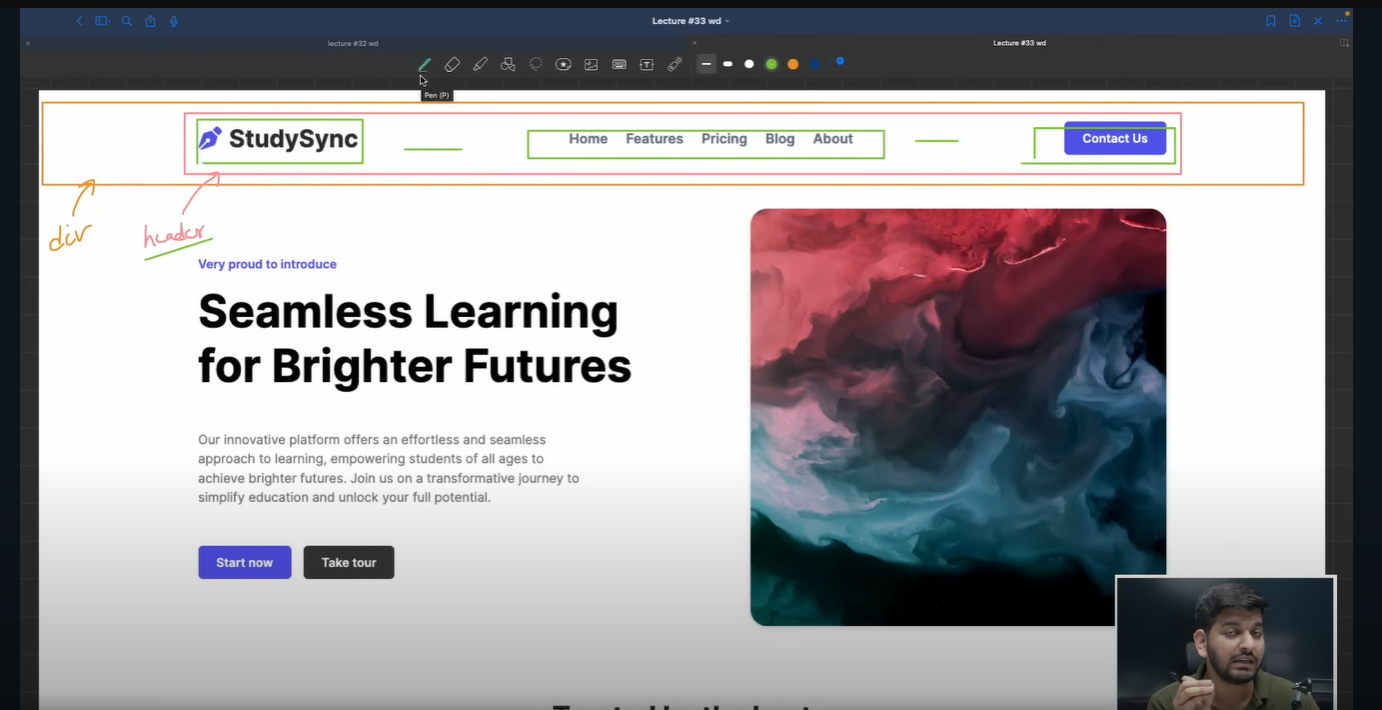
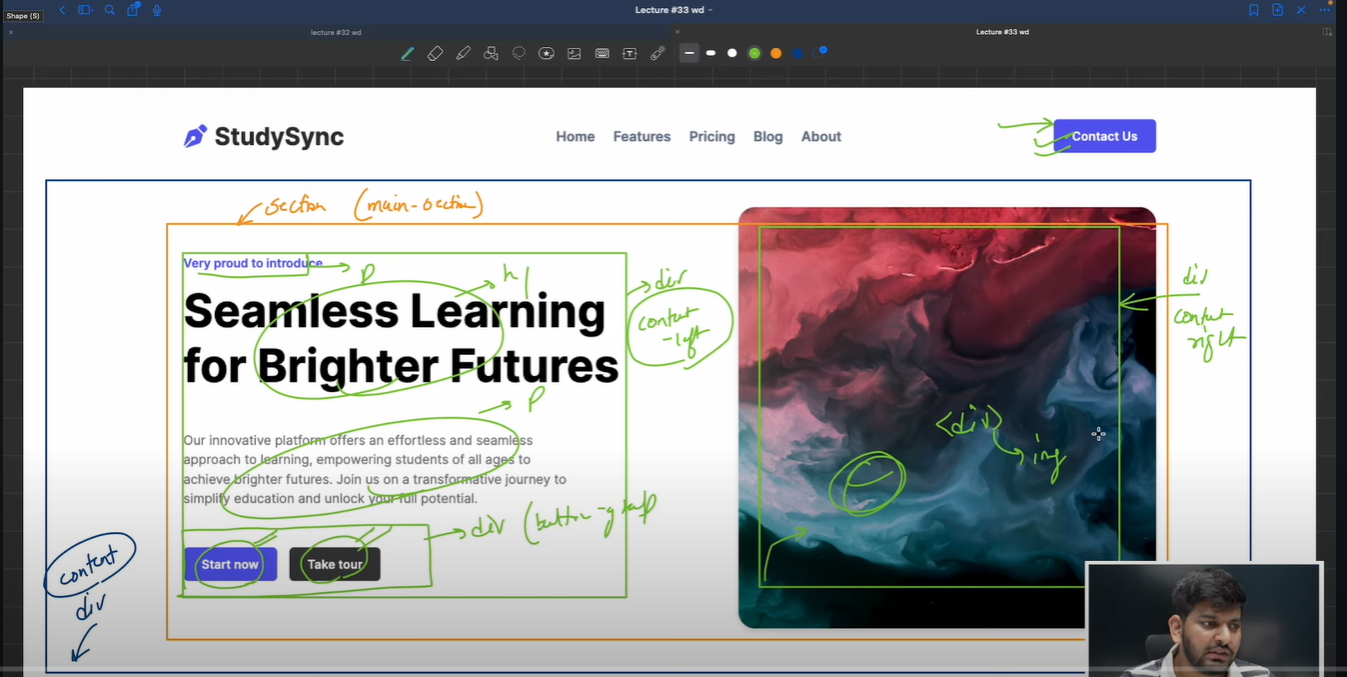
comm

diff --git a/00.4. StudySync Project Hero Section/styles.css b/00.4. StudySync Project Hero Section/styles.css
@@ -12,10 +12,10 @@
 }
 
 *{
-margin: 0;
-padding: 0;
-font-family: 'Inter', sans-serif;
-text-decoration: none;
+    margin: 0;
+    padding: 0;
+    font-family: 'Inter', sans-serif;
+    text-decoration: none;
 }
 
 body{
@@ -112,4 +112,166 @@ body{
     height: 1.5rem;
     width: 1.5rem;
 
+}
+.main_section{
+    max-width: 1280px;
+    display: flex;
+    flex-direction: column;
+    gap: 2rem;
+    padding: 0.6rem;
+    align-items: center;
+    margin: 0 auto;
+}
+
+.content_left{
+    text-align: center;
+    animation: slideFromLeft 1s ease forwards;
+    opacity: 0;
+}
+@keyframes slideFromLeft{
+    0%{
+        opacity: 0;
+        transform: translatex(-100%);
+    }
+    100%{
+        opacity: 1;
+        transform: translateX(0) ;
+    }
+}
+
+.section_label{
+    font-size: 1.15rem;
+    font-weight: 600 ;
+    color: var(--primary-color) ;
+}
+.section_title{
+    font-size: 2.3rem;
+    color: var(--text-color);
+    padding: 1.1rem;
+
+}
+.section_description{
+    color: var(--gray);
+    font-size: 1.13rem;
+
+}
+.button_group{
+    display: flex;
+    gap: 2rem;
+    padding: 1rem;
+    margin-top: 1rem;
+    justify-content: center;
+    align-items: center;
+
+}
+.start_button, .tour_button{
+    margin-top: 2rem;
+    border: none;
+    border-radius: 0.375rem;
+    background-color: var(--primary-color);
+    color: var(--background-color);
+    transform: all 0.1s;
+    padding: 0.75rem 1.5rem;
+    font-size: 1rem;
+    font-weight: 600;
+}
+.tour_button{
+    background-color: var(--dark-gray);
+}
+.start_button:hover{
+    color: #235ec4;
+}
+.tour_button:hover{
+    color: var(--gray);
+}
+.content_right{
+    display: flex;
+    justify-content: center;
+    align-items: center;
+
+}
+.image_container{
+    border-radius: 1.2rem;
+    overflow: hidden;
+    box-shadow: 0px 4px 8px rgba(0,0,0,0.1);
+    height: 54vh;
+}
+.section_image{
+    height: 100%;
+    width: 100%;
+}
+@media screen and (min-width:768px){
+    .main_section{
+        flex-direction: row;
+    }
+    .content_left{
+        max-width: 50%;
+        text-align: left;
+    }
+    .section_title{
+        padding-left:0;
+        font-size: 3.8rem;
+
+    }
+    .button_group{
+        justify-content: start;
+        padding-left: 0;
+    }
+    .section_label{
+        font-size: 1rem;
+    }
+    .image_container{
+        height: 67vh;
+    }
+    .section_description{
+        font-size: 1.1rem;
+        color: var(--gray);
+        width: 75%;
+    }
+}
+.company_container{
+    display: flex;
+    flex-direction: column;
+    justify-content: center;
+    align-items: center;
+    margin-top: 2rem;
+    animation: slideFromLeft 1s ease forwards;
+
+}
+.company_grid{
+    display: grid;
+    grid-template-columns: repeat(2,1fr);
+    gap: 3.6rem;
+    padding: 1rem;
+    background-color: var(--light-gray);
+    border: none;
+    border-radius: 0.625rem;
+    margin-top: 2rem;
+    margin-bottom: 10rem ;
+    padding: 1.5rem 2rem;
+}
+.company_logo{
+    font-size: 1rem;
+    font-weight: 500;
+    color: var(--gray);
+    display: flex;
+    gap: 0.5rem;
+}
+.svg_image{
+    height: 1.1rem;
+}
+.logo_txt{
+    color: var(--gray);
+    font-size: 1rem;
+}
+
+
+@media screen and (min-width:640px){
+    .company_grid{
+        grid-template-columns: repeat(4,1fr);
+    }
+    .company_title{
+        font-size: 2.3rem;
+        font-weight: bold;
+    }
 }

diff --git a/00.4. StudySync Project Hero Section/index.html b/00.4. StudySync Project Hero Section/index.html
@@ -37,6 +37,59 @@
         </header>
 
     </div>
+
+    <div class="content">
+        <section class="main_section">
+
+            <div class="content_left">
+                <p class="section_label">Very proud to introduce</p>
+                <h1 class="section_title">Seamless Learning
+                    for Brighter Futures
+                </h1>
+                <p class="section_description">
+                    Our innovative platform offers an effortless and seamless
+                    approach to learning, empowering students of all ages to
+                    achieve brighter futures. Join us on a transformative journey to
+                    simplity education and unlock yom full potential.
+                </p>
+                <div class="button_group">
+                    <a href="#start" class="start_button">Start now</a>
+                    <a href="#tour" class="tour_button">Take tour</a>
+                </div>
+            </div>
+
+            <div class="content_right">
+                <div class="image_container">
+                    <img src="images/usgs-hoS3dzgpHzw-unsplash.jpg" class="section_image" alt="sectionImgae">
+                </div>
+            </div>
+
+        </section>
+
+    </div>
+
+    <div class="company_container">
+        <h2 class="company_title">Trusted by the best</h2>
+        <div class="company_grid">
+            <div class="company_logo">
+                <img src="images/Google.svg" class="svg_image">
+                <span class="logo_txt">Google</span>
+            </div>
+            <div class="company_logo">
+                <img src="images/Microsoft.svg" class="svg_image">
+                <span class="logo_txt">Microsoft</span>
+            </div>
+            <div class="company_logo">
+                <img src="images/linkedin.svg" class="svg_image">
+                <span class="logo_txt">LinkedIn</span>
+            </div>
+            <div class="company_logo">
+                <img src="images/VectorEdu.svg" class="svg_image">
+                <span class="logo_txt">VectorEdu</span>
+            </div>
+        
+        </div>
+    </div>
     
 </body>
 </html>
